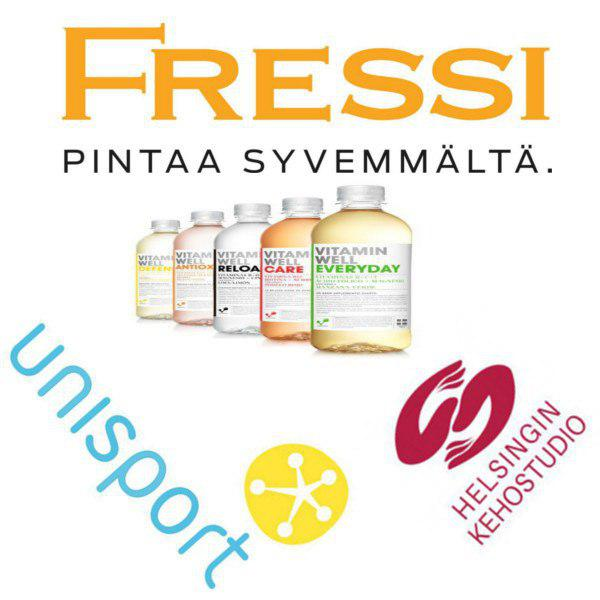
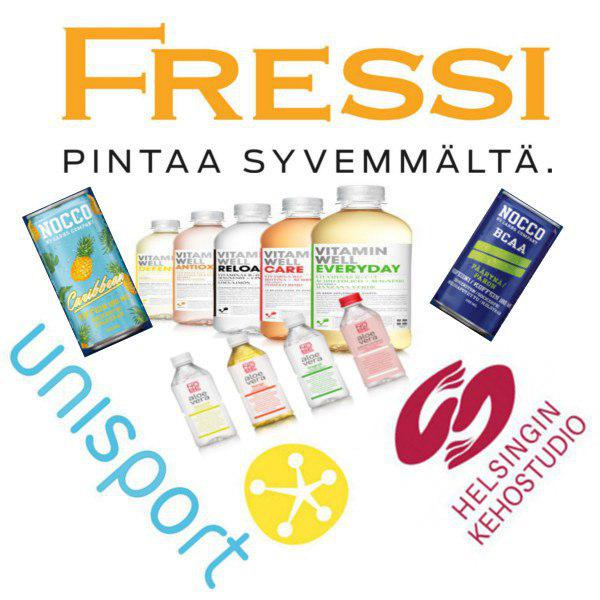
Added description to products, added new two new products

Changed region(s): [[0.27, 0.48, 0.69, 0.75], [0.03, 0.3, 0.27, 0.6], [0.72, 0.3, 0.96, 0.57]]

diff --git a/src/MainView.js b/src/MainView.js
@@ -23,35 +23,63 @@ const products = [
     imageMargin: 10,
     name: "SCI-Bundle\nSPECIAL\nVain tänään!",
     price: 1000,
-    weblink: "https://liikkuvatoimisto2.wordpress.com/ryhman-esittely/"
+    weblink: "https://liikkuvatoimisto2.wordpress.com/ryhman-esittely/",
+	description: "",
+	webname: "Tutustu tarkemmin!"
   },
   {
     image: require("./unisport-logo.jpg"),
     imageMargin: 0,
     name: "Unisport kertalippu",
     price: 10000,
-    weblink: "https://unisport.fi/?page=liikumeilla#62828886"
+    weblink: "https://unisport.fi/?page=liikumeilla#62828886",
+	description: "Urheile ilmaiseksi missä tahansa Unisportin toimispisteellä tällä kertalipulla",
+	webname: "Unisportin sivuille"
   },
   {
     image: require("./vitamin-well-square.jpg"),
     imageMargin: 5,
     name: "Vitamin Well",
     price: 15000,
-    weblink: "https://www.vitaminwell.fi/vitamin-well/"
+    weblink: "https://www.vitaminwell.fi/vitamin-well/",
+	description: "Nauti kylmänä hiilihapotettu ja hedelmäsokerilla makeutettu vitamiinijuoma!",
+	webname: "Vitamin Wellin sivuille"
   },
   {
     image: require("./fressi.jpg"),
     imageMargin: 10,
     name: "Fressi kertalippu",
     price: 10000,
-    weblink: "http://www.fressi.fi/kokeile-3-paivaa-veloituksetta/"
+    weblink: "http://www.fressi.fi/kokeile-3-paivaa-veloituksetta/",
+	description: "Kokeile Fressin palveluita ilmaiseksi missä tahansa toimipisteellä tällä kertalipulla",
+	webname: "Fressin sivuille"
+  },
+  {
+    image: require("./nobe.jpg"),
+    imageMargin: 0,
+    name: "NOBE aloe vera",
+    price: 15000,
+    weblink: "http://nobealoevera.com/suomi/",
+	description: "Nauti kylmänä ja ravistettuna NOBE aloe vera -juoma! Sisältää mehukkaita aloe vera palasia ja 100% luonnollisia väriaineita ja aromeja",
+	webname: "NOBEn sivuille"
   },
   {
     image: require("./helsingin-kehostudio.jpg"),
     imageMargin: 0,
     name: "Helsingin Kehostudio hieronta",
     price: 10000,
-    weblink: "http://www.helsinginkehostudio.fi/"
+    weblink: "http://www.helsinginkehostudio.fi/",
+	description: "Lunasta 15€ arvoinen lahjakortti Helsingin Kehostudion hierontaan! Etu käytettävissä arkisin 8 - 20",
+	webname: "Helsingin Kehostudion sivuille"
+  },
+  {
+    image: require("./nocco.jpg"),
+    imageMargin: 0,
+    name: "NOCCO",
+    price: 15000,
+    weblink: "https://nocco.fi/tuotteet/",
+	description: "Raikas marjoille tai hedelmille maistuva hiilihapotettu juoma, joka sisältää kofeiinia ja kuutta eri vitamiinia",
+	webname: "NOCCOn sivuille"
   },
 ];
 

diff --git a/src/ProductView.js b/src/ProductView.js
@@ -52,12 +52,15 @@ class ProductView extends Component {
           <Image source={this.props.product.image} style={{flex: 1, width: "100%", margin: 20, backgroundColor: 'white'}} resizeMode='contain' />
           <View style={{flex: 1, padding: 20}}>
             <Text style={{flex: 0, textAlign: 'center', color: '#333', fontWeight: 'normal', fontSize: 20}}>{this.props.product.name}</Text>
+			<Text style={{flex: 0, textAlign: 'center', color: '#333', fontSize: 16, marginTop: 2}}>
+				{this.props.product.description}
+			</Text>
 			<Text style={styles.desc} onPress = { () => {this.props.navigator.push({id: "Browser", product: this.props.product})}}>
-				Tuotesivu
+				{this.props.product.webname}
 			</Text>
 			
-			<Text style={{flex: 1, textAlign: 'center', color: '#333', fontWeight: 'bold', fontSize: 25}}>{this.props.product.price} p</Text>
-            <Text style={{flex: 1, textAlign: 'center', color: '#333', fontWeight: 'normal', fontSize: 18}}>
+			<Text style={{flex: 1, textAlign: 'center', color: '#333', fontWeight: 'bold', fontSize: 22}}>{this.props.product.price} p</Text>
+            <Text style={{flex: 1, textAlign: 'center', color: '#333', fontWeight: 'normal', fontSize: 16}}>
               { (this.props.product.price <= this.props.points)
                   ? "Osta tuote koskettamalla\nautomaattia laitteellasi."
                   : "Sinulla ei ole vielä tarpeeksi pisteitä tämän tuotteen ostamiseen."
